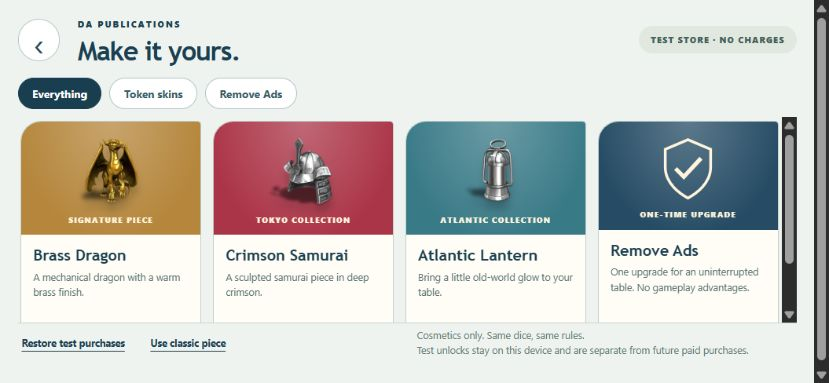
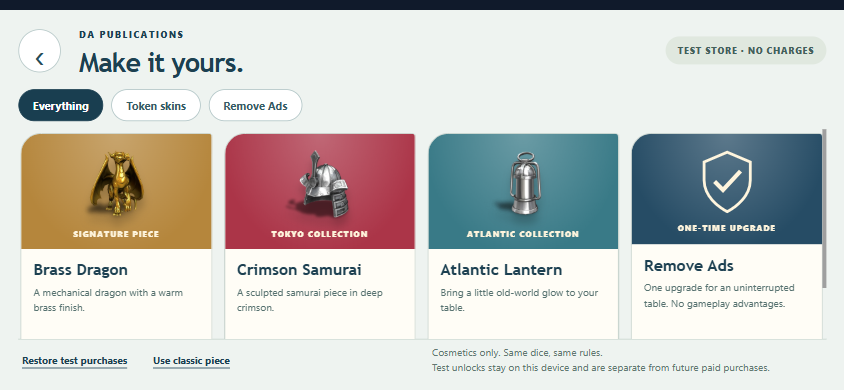
Record published mobile release and live UI verification

diff --git a/Applications/verification/MOBILE_0.8.0.md b/Applications/verification/MOBILE_0.8.0.md
@@ -39,6 +39,11 @@ versionCode 6, 47,868,569 bytes. SHA-256:
 - Hosted large Unity data is streamed from ordered asset parts on the free
   Worker. Downloaded gzip bytes, SHA-256 and CORS matched the local build.
   Existing smaller player releases remain available for already-open clients.
+- The deployed player completed a real browser download and rendered Forest
+  World. GitHub Pages deployment 41510745819 passed and its mobile Home visibly
+  shows Play, Join, Maps, Store, Settings and Preview 0.8.0.
+- The public GitHub Release APK was downloaded independently and its size and
+  SHA-256 match the local package. Release tag: `v0.8.0-test`.
 
 ## Limits
 
